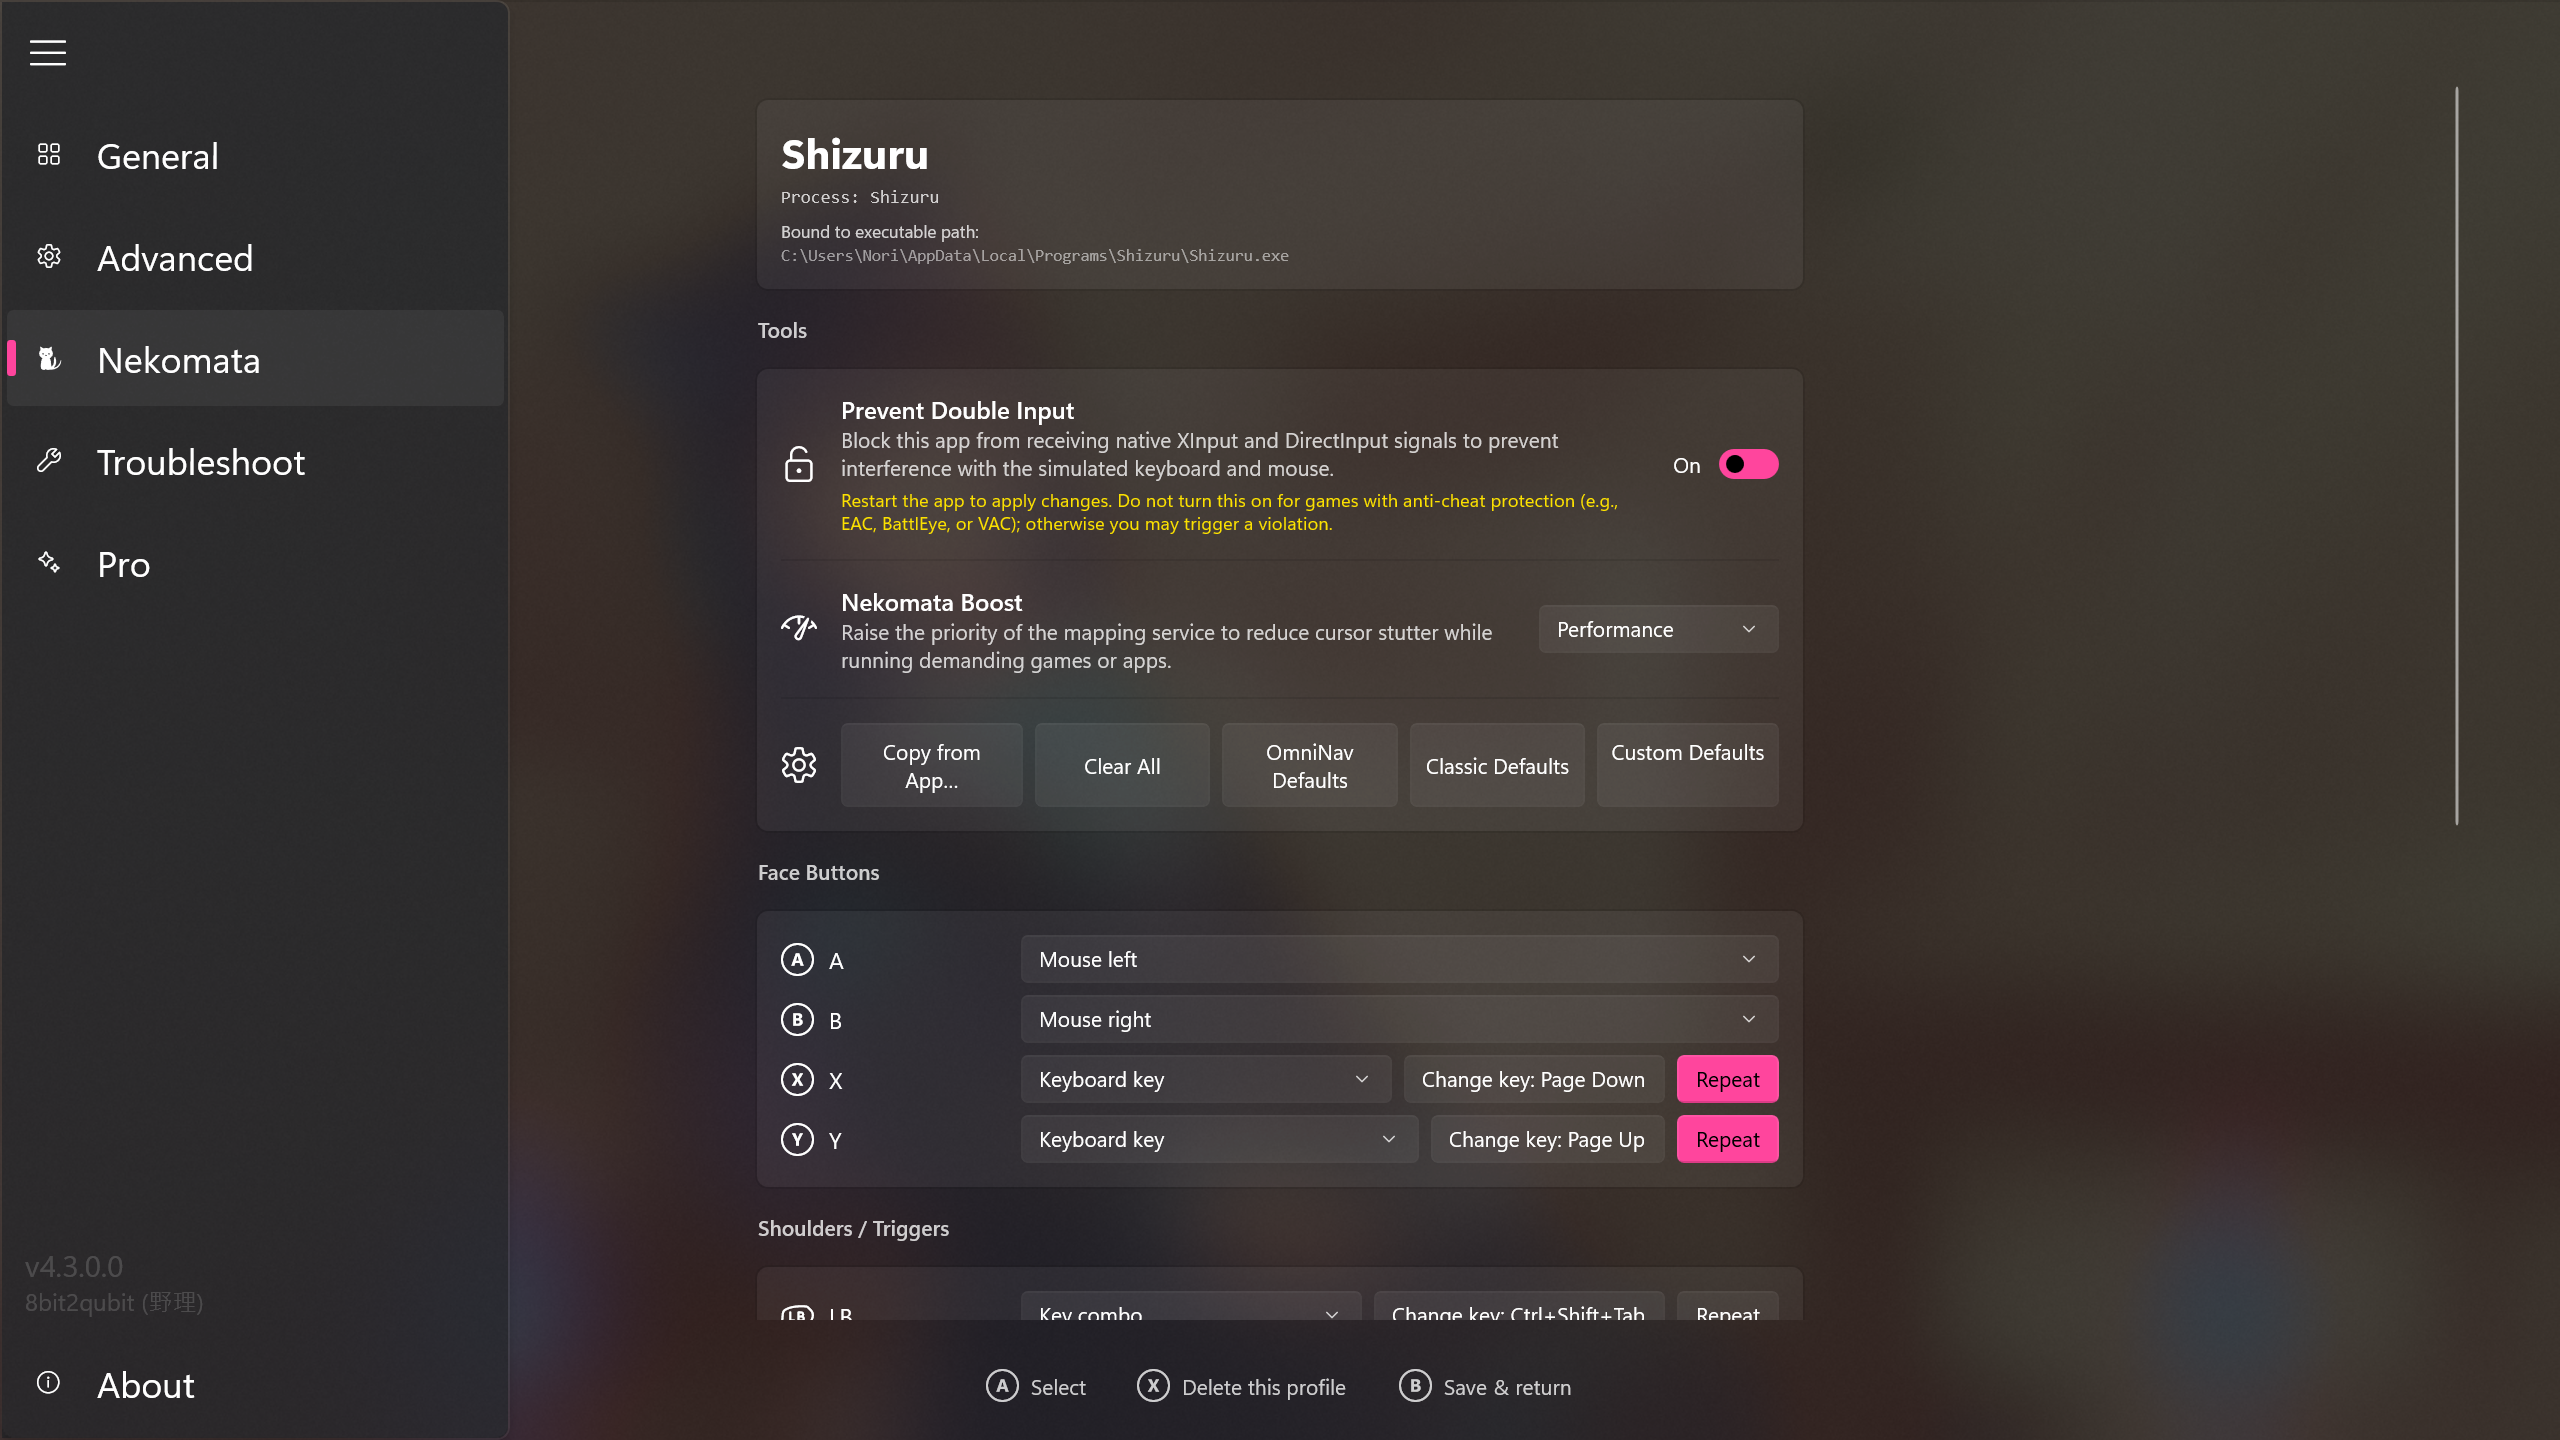
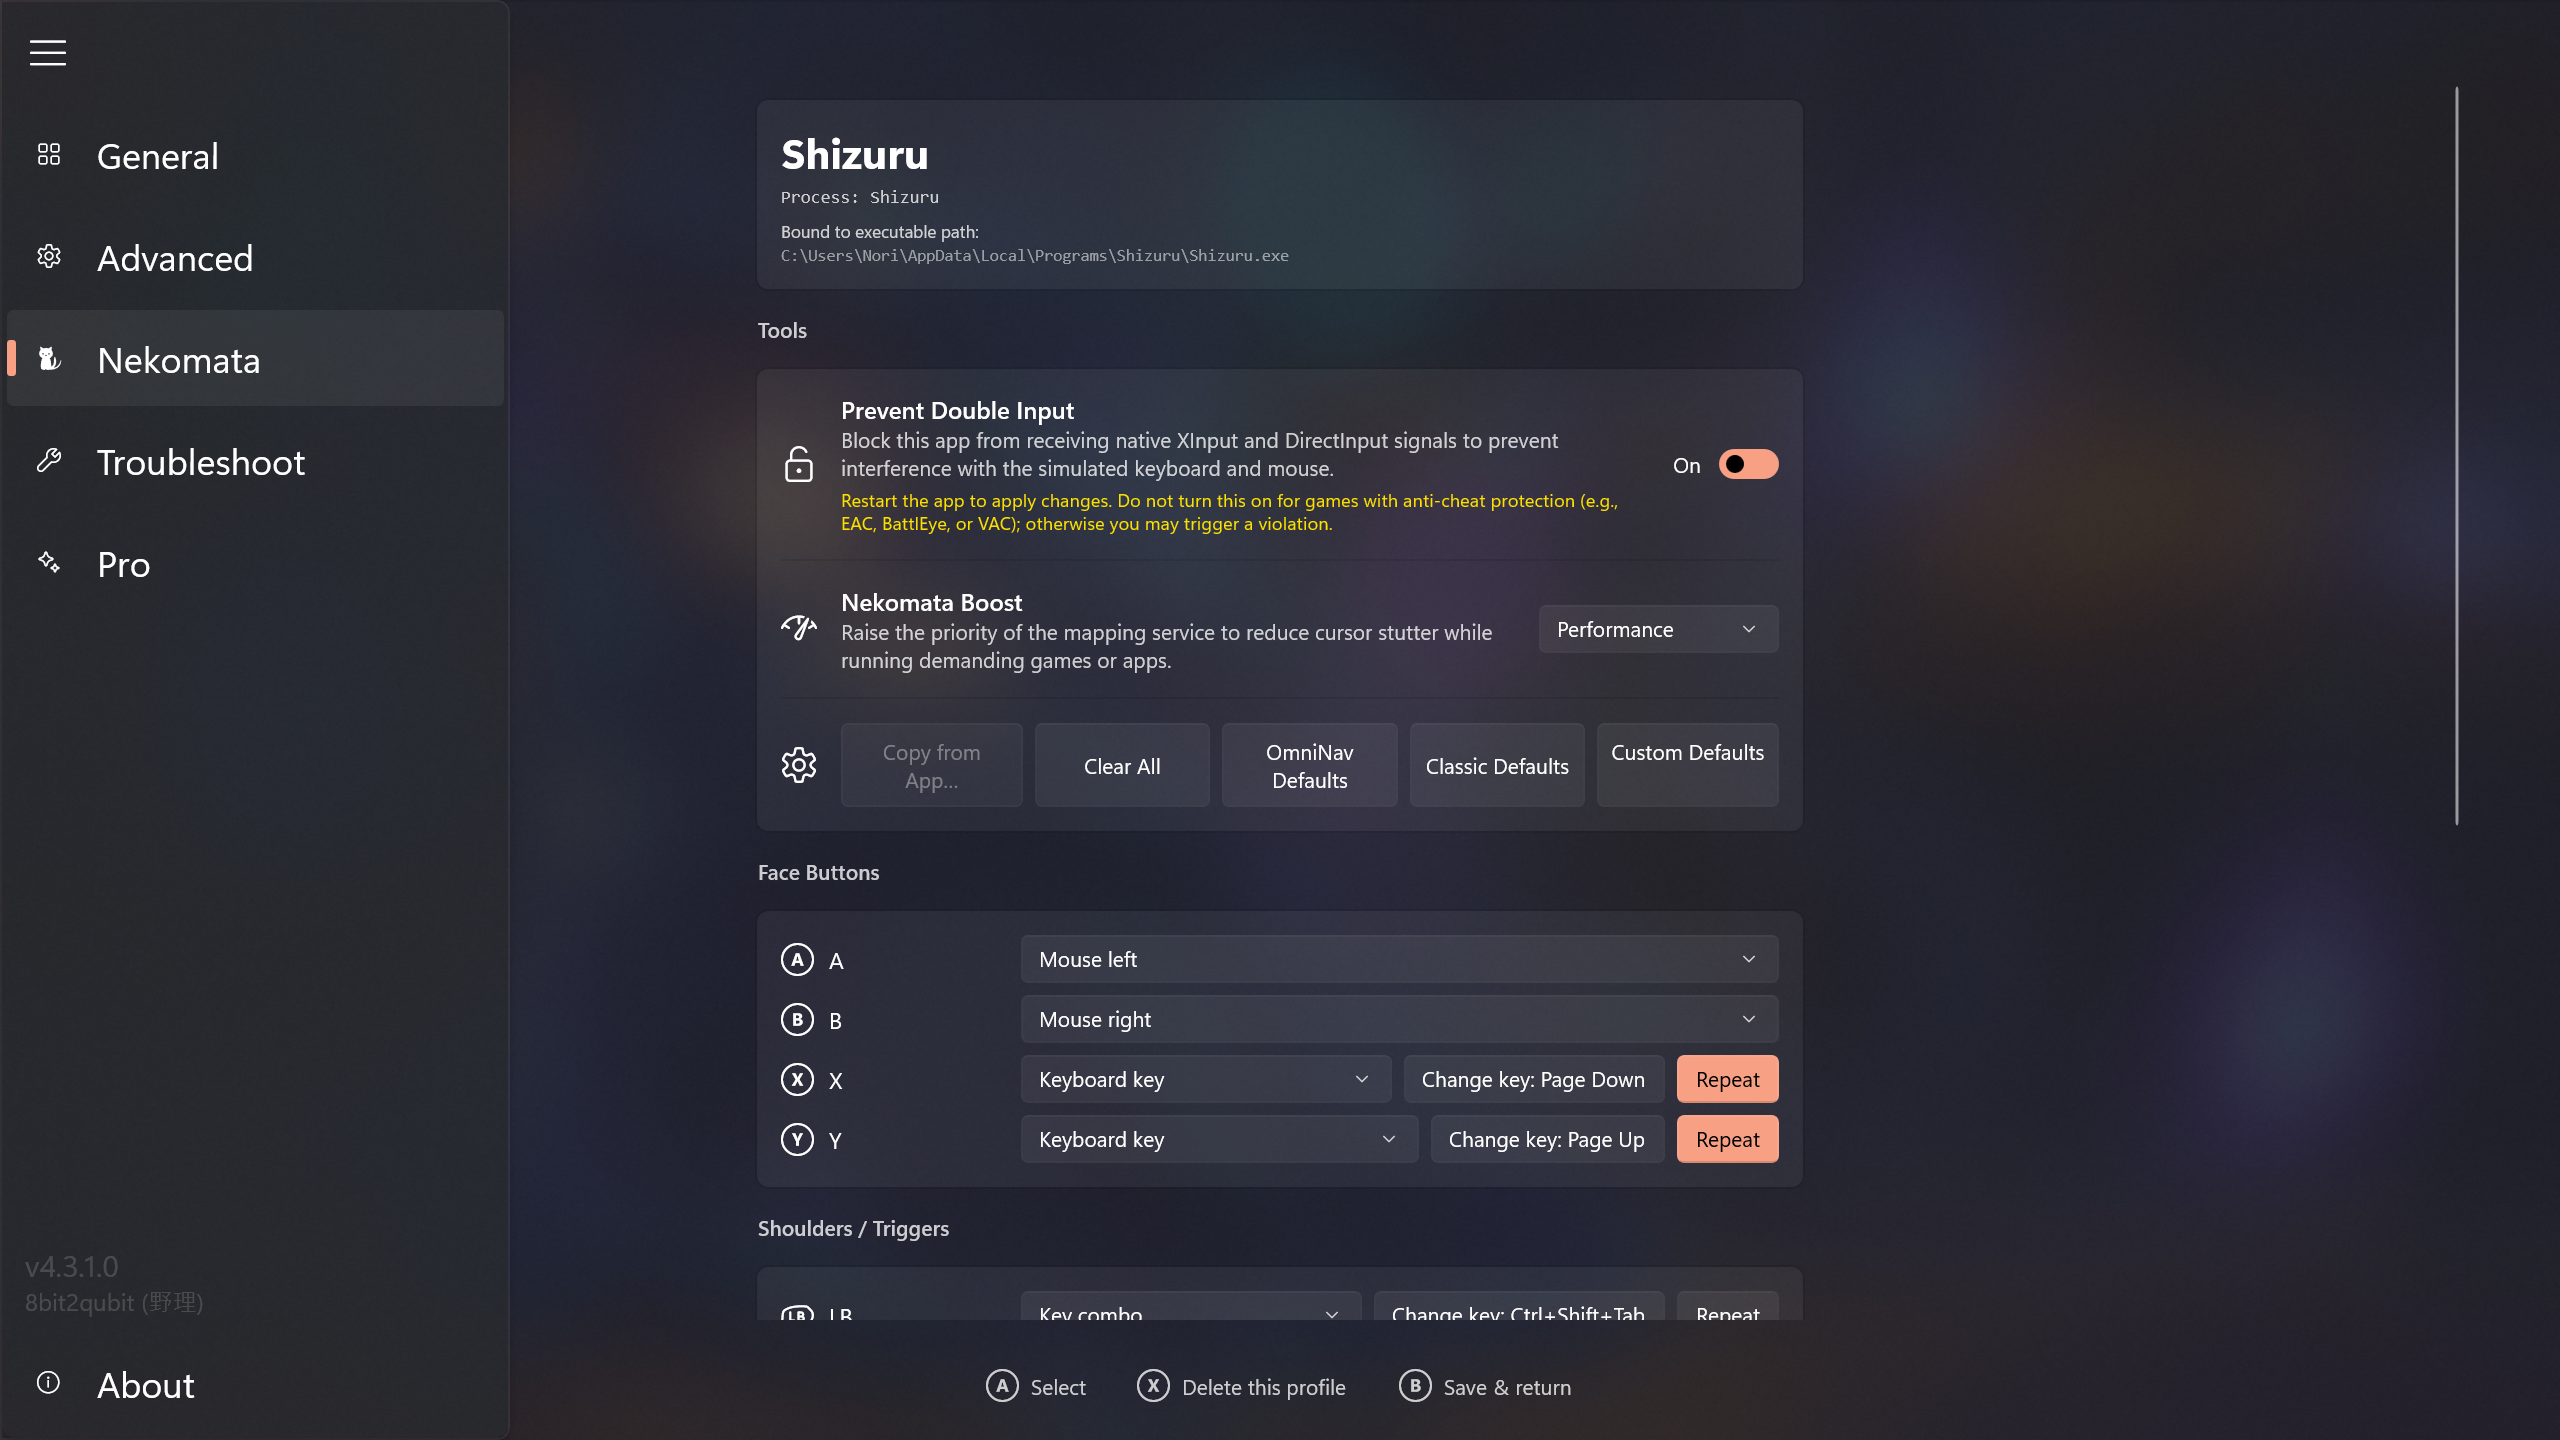
chore: Bump version to 4.3.1.0 and ship the main app with everything it needs to run

diff --git a/README.zh-TW.md b/README.zh-TW.md
@@ -46,7 +46,7 @@ OmniConsole 在 PC 與掌機（ROG Xbox Ally X 等）上作為你的 Windows 11 
 - **手把支援** – 以**十字鍵**或**左搖桿**導覽；**A 鍵**確認、**B 鍵**退出、**LB/RB** 切換分類索引標籤、**Y 鍵**新增自訂平台、**X 鍵**編輯，**Menu（☰）鍵**將聚焦平台設為預設並立即啟動（僅在 OmniConsole 於 Xbox 模式 (FSE) 中執行時可用）。
 - **OmniCharm 小工具** – 遊戲中快速存取的 Game Bar 小工具：一鍵開啟**工作檢視**、**Xbox 媒體櫃**、**檔案總管**或 **Steam 內嵌介面**；切換**貓又模式**、控制器預設版面、游標速度與 **Steam 遊戲內嵌介面**（長按 ☰）。檔案總管直接開啟**本機**，而貓又模式的內建映射涵蓋它，瀏覽與開啟檔案全程用手把就行。
 - **手把 Steam 快捷鍵** – 手把 **⧉** 按鍵對應 Steam Big Picture 模式快捷：短按開啟 **Steam 選單**，長按喚出**快速存取選單**。在遊戲中長按 **☰** 可開啟 **Steam 遊戲內嵌介面**。
-- **貓又模式 — 手把化身鍵鼠、自訂各程式映射** – 開啟時，你自訂的設定檔會接手，而瀏覽器、檔案總管、Windows 檔案選擇器、Steam、Epic Games Store、EA Desktop、Playnite 桌面版、Discord 等常見程式則套用 OmniConsole 預先備妥的映射，這些映射同樣能自訂。貓又為每個程式編一道咒，將 XInput 輸入位（A/B/X/Y、LB/RB、LT/RT、LS/RS、十字鍵、雙搖桿）重新映射為鍵盤按鍵、修飾鍵組合、滑鼠按鍵、滾輪、游標移動、捲動、方向鍵或 WASD，並提供三種控制器版面配置：**OmniNav**、**經典**，以及你自己定義的**自訂版面**（專業版）。每個程式的咒語還能以**貓又衝刺**提高映射服務優先順序、應付吃資源的遊戲，為任何按鍵開啟**長按連發**，並**避免雙重輸入**：阻擋該程式自身的原生 XInput 與 DirectInput 訊號，避免與映射後的鍵鼠相互干擾。從 OmniCharm 小工具的「自訂此程式的手把映射…」按鈕進入編輯器。
+- **貓又模式 — 手把化身鍵鼠、自訂各程式映射** – 開啟時，你自訂的設定檔會接手，而瀏覽器、檔案總管、Windows 檔案選擇器、Steam、Epic Games Store、EA Desktop、Playnite 桌面版、Discord 等常見程式則套用 OmniConsole 預先備妥的映射，這些映射同樣能自訂。貓又為每個程式編一道咒，將 XInput 輸入位（A/B/X/Y、LB/RB、LT/RT、LS/RS、十字鍵、雙搖桿）重新映射為鍵盤按鍵、修飾鍵組合、滑鼠按鍵、滾輪、游標移動、捲動、方向鍵或 WASD，並提供三種控制器版面配置：**OmniNav**、**經典**，以及你自己定義的**自訂版面**（專業版）。每個程式的咒語還能以**貓又衝刺**提高映射服務優先順序，應付吃資源的遊戲，為任何按鍵開啟**長按連發**，並**避免雙重輸入**：阻擋該程式自身的原生 XInput 與 DirectInput 訊號，避免與映射後的鍵鼠相互干擾。從 OmniCharm 小工具的「自訂此程式的手把映射…」按鈕進入編輯器。
 - **自訂控制器版面（專業版）** – 在 OmniNav 與經典之外，自己定義一套預設版面。於**設定 → 進階 → 貓又 → 控制器預設版面**選擇**自訂**，再點 **編輯…** 編排手把的輸入位。內建映射涵蓋的程式會立即套用，新增的程式設定檔也以它為起點。OmniCharm 小工具同樣能切換到它。
 - **系統管理員程式支援（專業版）** – 手把映射能作用於以系統管理員身分執行的程式與遊戲。在**設定 → 進階 → 貓又**點選**安裝**並通過系統管理員授權，貓又模式就會延伸到這類程式，OmniCharm 小工具也能為它們開啟映射編輯器。
 - **用手把叫出螢幕鍵盤（專業版）** – Windows 本身就能從 Game Bar 叫出螢幕鍵盤。專業版多一條直達路線：把任一按鍵映射成喚出鍵盤，手邊的事不必中斷。可選用手把直接打字的**遊戲控制器鍵盤**，或以游標點按的**螢幕小鍵盤**。螢幕小鍵盤另需系統管理員程式支援。
